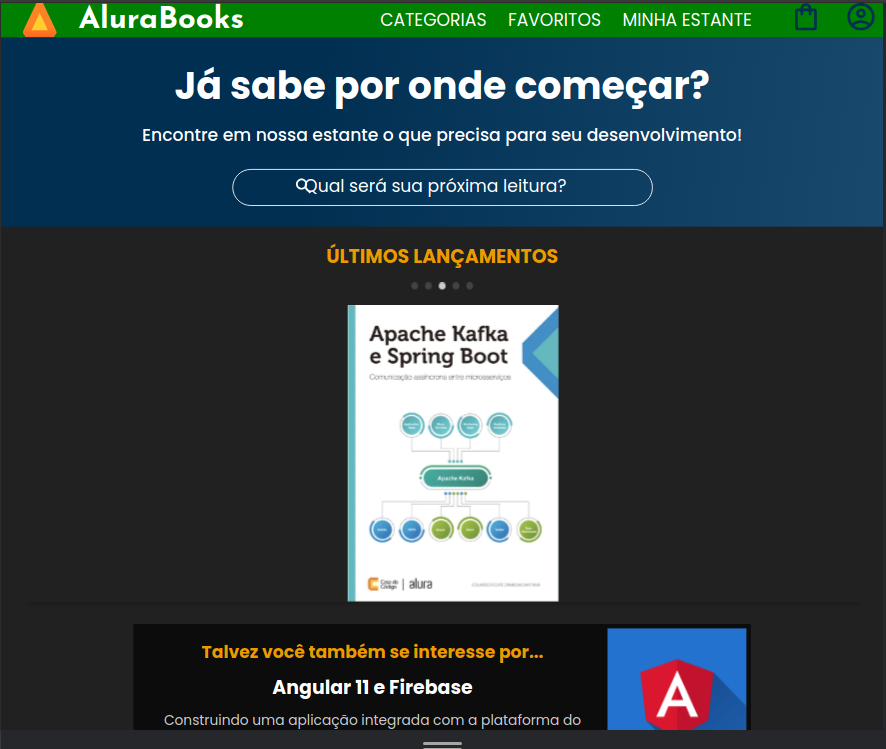
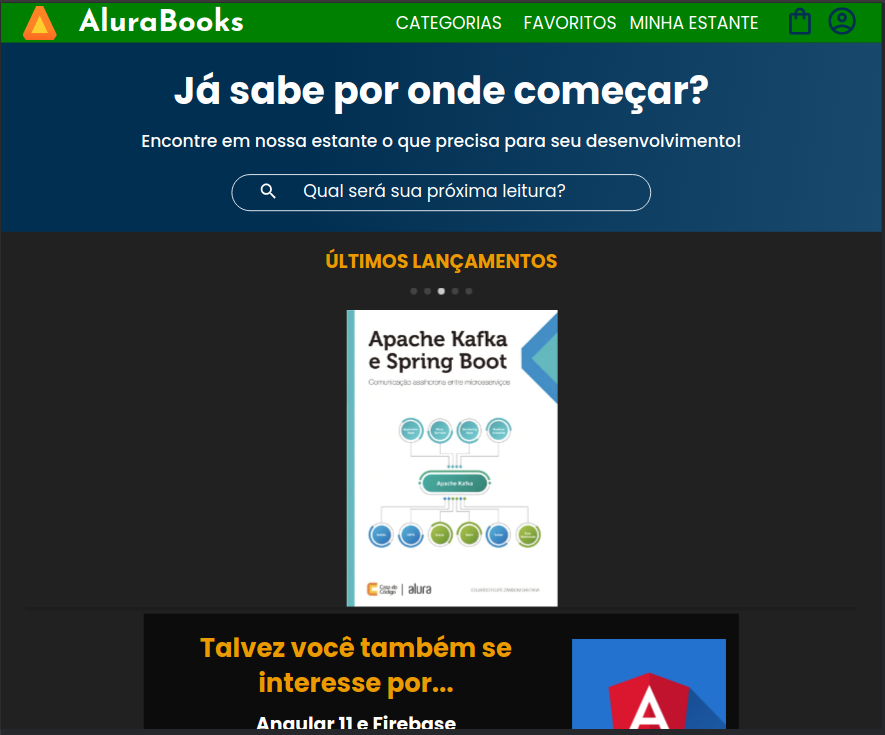
Corrigido bugs de tamanho de fonte

Changed region(s): [[0.0, 0.0898, 1.0, 1.0], [0.0, 0.0, 1.0, 0.0599], [0.7322, 0.2395, 0.7627, 0.2694]]

diff --git a/styles/header.css b/styles/header.css
@@ -227,13 +227,28 @@
 }
 
 @media (min-width: 1728px) {
+    .titulo-site {
+        font-size: 1.5rem;
+    }
+    .titulo-site b, span {
+        font-size: 1.5rem;
+
+    }
+
+    .titulo-site span {
+        font-size: 1.5rem;
+    }
+
+    .lista-titulo {
+        font-size: 1.5rem;
+    }
 
     .texto-pra-pc {
         padding-top: 5px;
         display: flex;
         align-self: center;
         justify-self: center;
-        font-size: 1.2rem;
+        font-size: 1.5rem;
     }
 
     .container-icone-lado-um {
@@ -256,11 +271,15 @@
     }
 
     .categorias-tablet a,h2{
-        font-size: 1.2rem;
+        font-size: 1.5rem;
+    }
+
+    .categorias-tablet {
+        font-size: 1.5rem;
     }
 
     #categorias-h2 {
-        font-size: 1.2rem;
+        font-size: 1.5rem;
     }
 
 }

diff --git a/styles/secao-email.css b/styles/secao-email.css
@@ -65,27 +65,27 @@
 
 }
 
-@media (min-width: 1778px) {
+@media (min-width: 1728px) {
     #textos h2 {
-        font-size: 1.7rem;
+        font-size: 2.3rem;
     }
 
     #textos p {
-        font-size: 1.5rem;
+        font-size: 2rem;
     }
 
     #input-email::placeholder {
         font-weight: 400;
-        font-size: 1.5rem;
+        font-size: 1.8rem;
         font-family: var(--font-principal);
         background: url(../assets/email.svg) no-repeat; /*Com a regra background posso colocar mais de um comando*/
         text-align: center;
-        background-position: 2em;
+        background-position: 1em;
         color: var(--branco);
     }
 
     #input-email {
-        font-size: 1.5rem;
+        font-size: 1.8rem;
         padding: 10px 30px;
 
     }

diff --git a/styles/topicos.css b/styles/topicos.css
@@ -29,26 +29,28 @@
 
 @media (min-width:1024px) {
 
-    .titulo-topicos {
-        font-size: 2rem;
+    #titulo-topicos {
+        font-size: 1.7rem;
     }
 
     .lista-item-topicos {
-        font-size: 1rem;
+        font-size: 1.2rem;
         padding: 24px 32px;
         color: black;
     }
 
 }
 
-@media (min-width:1778px) {
+@media (min-width:1728px) {
     #titulo-topicos {
-        font-size: 2rem;
+        font-size: 2.3rem;
     }
 
     .lista-item-topicos {
-        font-size: 1.5rem;
+        font-size: 2rem;
         padding: 24px 32px;
         color: black;
     }
+
+    
 }

diff --git a/styles/sugestao.css b/styles/sugestao.css
@@ -45,7 +45,7 @@
 
 
 .sugestao-imagem {
-    width: auto;
+    width: 40%;
     height: auto;
     margin: 24px 10px;
 }
@@ -104,10 +104,14 @@
         font-size: 1.5rem;
     }
 
+    .descricao h2 {
+        line-height: 2rem;
+    }
+
 
 }
 
-@media (min-width: 1778px) {
+@media (min-width: 1728px) {
     .descricao h2, h3, p {
         font-size: 1.8rem;
     }
@@ -159,7 +163,9 @@
         height: auto;
     }
     
-
+    .btn-sugestao a{
+        font-size: 1.7rem;
+    }
 
 
 }

diff --git a/index.html b/index.html
@@ -253,7 +253,7 @@
 
         <div class="card-descricao">
             <div class="descricao">
-                <h3>Autora do Mês</h3>
+                <h2>Autora do Mês</h2>
                 <h3>Juliana Agarikov</h3>
                 <p>Analista de sistemas e escritora, Juliana é especialista em Front-End. </p>
             </div>

diff --git a/styles/footer.css b/styles/footer.css
@@ -54,10 +54,10 @@ footer {
     }
 }
 
-@media (min-width: 1778px) {
+@media (min-width: 1728px) {
 
     footer h2, li {
-        font-size: 1.7rem;
+        font-size: 2rem;
     }
 
     footer p, a{

diff --git a/styles/carrossel.css b/styles/carrossel.css
@@ -48,7 +48,7 @@
     }
 }
 
-@media (min-width: 1778px) {
+@media (min-width: 1728px) {
     .titulo-carrossel:nth-child(1) {
         font-size: 2rem;
         display: flex;

diff --git a/styles/banner.css b/styles/banner.css
@@ -57,7 +57,7 @@
     }
 }
 
-@media (min-width: 1778px) {
+@media (min-width: 1728px) {
     #banner {
         padding: 8rem;
     }

diff --git a/README.md b/README.md
@@ -28,6 +28,10 @@ O projeto foi criado para ser responsivo em diferentes formatos de tela incluind
 
 ![Versão Tablet](assets/tablet%202.png)
 
+## Versão Desktop
+
+![Versão Desktop](assets/pc%201.png)
+![Versão Desktop](assets/pc%202.png)
 
 ## Agradecimentos
 
